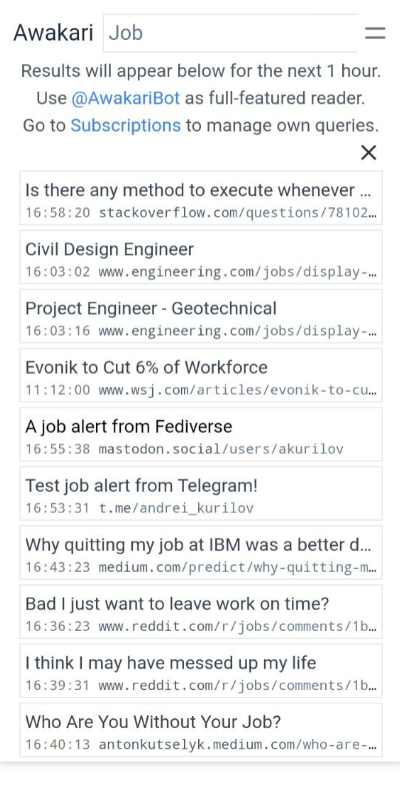
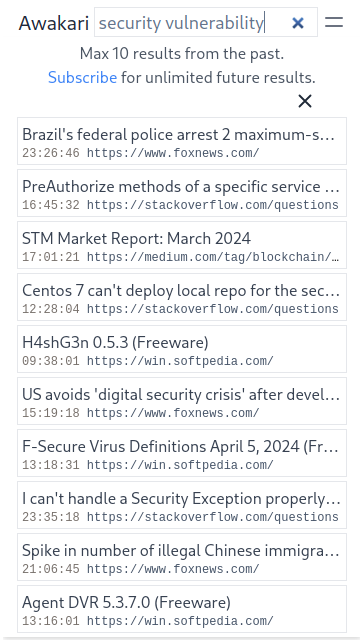
save [skip ci]

Changed region(s): [[0.0306, 0.0, 0.9778, 1.0], [0.9472, 0.9688, 0.9778, 1.0]]

diff --git a/web/articles/search-in-the-future/index.html b/web/articles/search-in-the-future/index.html
@@ -217,13 +217,10 @@
                         awakari.com</a>
                     site, first you will see the search input box.
                     You can use it for a quick keywords query test without signing in.
-                    Such query is temporary and limited by 1 hour.
-                    When it's not enough, and you need persistent queries you need to
-                    <a href="https://awakari.com/login.html"
-                       target="_blank" class="text-blue-700 dark:text-blue-300">
-                       sign in</a>.
+                    Such search is text only and results are limited to the past.
+                    When it's not enough, and you want to be notified about future results you need to subscribe.
                 <p class="p-1">&nbsp;&nbsp;
-                    Currently, it's possible to sign in
+                    Currently, it's possible to subscribe
                     <a href="https://telegram.org/blog/login"
                        target="_blank" class="text-blue-700 dark:text-blue-300">
                         with a Telegram account.</a>
@@ -233,25 +230,23 @@
                     <a href="https://github.com/awakari/bot-telegram/blob/master/api/grpc/tgbot/controller.go#L60"
                        target="_blank" class="text-blue-700 dark:text-blue-300">
                         Open-Source</a>.
-                    In the future, it may be easily extended to deliver search results in RSS format if there's a demand.
                     Other delivery and notification options are possible to implement too.
                     </p>
                 <p class="p-1">&nbsp;&nbsp;
                     After signed in, you're welcome to:</p>
-                <p>&nbsp;&nbsp;&nbsp;&nbsp;✓ create and use up to 10 parallel queries</p>
-                <p>&nbsp;&nbsp;&nbsp;&nbsp;✓ publish up to 100 messages per day.</p>
-                <p>
-                    A signed-in user also allowed to add own publishing sources to the common collection.
-                    The sources added by the user will utilize the user's daily publishing quota.
-                    You can request to increase a limit or separate a dedicated publishing limit for your source.
-                    </p>
+                <p>&nbsp;&nbsp;&nbsp;&nbsp;✓ create and use up to 10 subscriptions</p>
+                <p>&nbsp;&nbsp;&nbsp;&nbsp;✓ publish up to 100 messages per day</p>
+                <p>&nbsp;&nbsp;&nbsp;&nbsp;✓ define advanced query conditions</p>
+                <p>&nbsp;&nbsp;&nbsp;&nbsp;✓ bring own publishing sources</p>
             </div>
             <div class="flex justify-center">
-                <img src="../../2024-03-04_18-02.png" class="border border-slate-500" style="width: 350px; height: 700px"/>
+                <img src="../../2024-03-04_18-02.png" class="border border-slate-500" style="width: 360px; height: 640px"/>
             </div>
         </div>
 
         <p class="p-1">&nbsp;&nbsp;
+            Sources added by a user will utilize the user's daily publishing quota.
+            You can request to increase a limit or separate a dedicated publishing limit for your source.
             As far as the service is completely free,
             <a href="https://t.me/donateawk/14"
                target="_blank" class="text-blue-700 dark:text-blue-300">
@@ -307,13 +302,13 @@
         <h3 id="32-text-search" class="text-xl font-semibold text-center py-2">3.2. Text Search</h3>
 
         <p class="p-1">&nbsp;&nbsp;
-            Awakari extracts the message text and performs a text search to find all matching queries.
+            Awakari extracts the message text and performs a text search to find all matching subscriptions.
             It also uses the basic words
             <a href="https://en.wikipedia.org/wiki/Stemming"
                target="_blank" class="text-blue-700 dark:text-blue-300">
                 stemming</a> so different forms of the same word will match.
             At the moment the stemming works only for english language but later this may be extended.
-            Exact query text match option is available as well.</p>
+            Exact text match option is available as well.</p>
         <p class="p-1">&nbsp;&nbsp;
             The general recommendation is to use specific keywords longer than 3 symbols.
             When you specify multiple keywords separated by space the search will match any of them.
@@ -335,7 +330,7 @@
                 <p>&nbsp;&nbsp;&nbsp;&nbsp;• Price</p>
                 <p>&nbsp;&nbsp;&nbsp;&nbsp;• Source</p>
                 <p>... and more.
-                    So you can use it in advanced queries for the additional filtering.
+                    So you can use it in advanced conditions for the additional filtering.
                     For text search conditions the attribute key may be skipped to look for a match everywhere.</p>
             </div>
 
@@ -366,9 +361,9 @@
                     Nested conditions may also be groups.</p>
                 <p class="p-1">&nbsp;&nbsp;
                     Together all these advanced search features provide rich possibilities to filter a content.
-                    You're encouraged to experiment with various query condition combinations.
-                    When a query produce unexpected results just update it modifying its conditions.
-                    For example, a query initially may be too general and produce too many results.
+                    You're encouraged to experiment with various conditions combinations.
+                    When a subscription produce unexpected results just update it modifying its conditions.
+                    For example, a subscription initially may be too general and produce too many results.
                     Just try to make it more specific then.</p>
             </div>
 
@@ -380,24 +375,24 @@
         <div class="grid grid-cols-1 sm:grid-cols-2 sm:space-x-4 space-y-2">
             <div>
                 <p class="p-1">&nbsp;&nbsp;
-                    When you create a query the
+                    When you create a new subscription the
                     <a href="https://t.me/AwakariBot"
                        target="_blank" class="text-blue-700 dark:text-blue-300">
                         @AwakariBot</a> in Telegram starts to deliver the search results to you.
-                    If you have multiple queries it's recommended to assign every query to a separate group for your convenience.
+                    If you have multiple subscriptions it's recommended to assign every subscription to a separate group for your convenience.
                     To do this, create a simple group, add @AwakariBot and type the <code class="text-slate-500">/start</code> command to the chatbot.
-                    This command always displays list of your queries to choose.
-                    Clicking on a selected query will link or unlink it to a current chat.
-                    Additonal icons against every query show whether a query is linked to the current chat or another.
+                    This command always displays list of your subscriptions to choose.
+                    Clicking on a selected subscription will link or unlink it to a current chat.
+                    Additonal icons against every subscription show whether the subscription is linked to the current chat or another.
                 <p class="p-1">&nbsp;&nbsp;
                     The primary chatbot purpose is a search results reader.
-                    The chatbot may be also used to publish a basic message or subscribing for a simple text search query.
+                    The chatbot may be also used to publish a basic message or subscribe for a simple text search query.
                     If you're an admin of a public channel and want Awakari to consume posts from your channel you can
                     add @AwakariBot to your channel removing all admin rights.
                     </p>
                 <p class="p-1">&nbsp;&nbsp;
                     Note the resulting messages also contain the attributes, e.g. "source".
-                    You can use this info to fine-tune the query conditions.
+                    You can use this info to fine-tune the subscription conditions.
                     </p>
                 <p class="p-1">&nbsp;&nbsp;
                     Other than Telegram integrations are doable too. So your feedback is important.</p>
